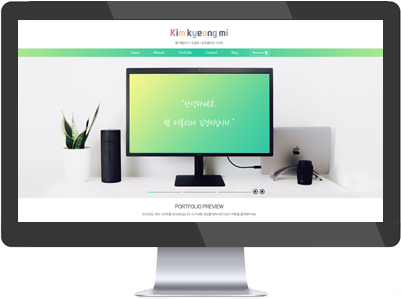
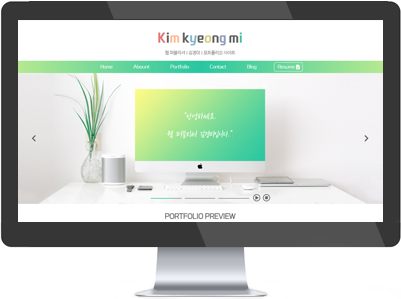
Source : index 배너 이미지 변경

diff --git a/css/index.css b/css/index.css
@@ -46,7 +46,7 @@
 .project_list:nth-child(5) .project_preview_img {background: url(../img/project_img_05.png) center / cover no-repeat;}
 .project_title {margin: var(--base-15);}
 .project_list a {position: relative; width: 60%; height: var(--size-tall); margin: 0 auto; font-size: var(--size-small); border: 1px solid var(--color-mideum-grey); border-radius: 20px; color: var(--color-grey)}
-.project_list a::before {display: block; content: ""; position: absolute; width: 100%; height: 100%; border-radius: 20px; background-color: var(--color-mint); transform: scale(0); transition: transform .2s; z-index: -1;}
+.project_list a::before {display: block; content: ""; position: absolute; width: 100%; height: 100%; border-radius: 20px; background: var(--color-mint); transform: scale(0); transition: transform .2s; z-index: -1;}
 .project_list a:hover {color: var(--color-white);}
 .project_list a:hover::before {transform: scale(1);}
 .project_list .fw_light {display: block;}
@@ -69,7 +69,7 @@
 
 @media screen and (min-width: 1200px) {
   .project_title {margin-bottom: 15px;}
-  .banner button {background: transparent; color: var(--color-black); transition: opacity .3s; opacity: 0; outline: none;}
+  .banner button {background: transparent; color: var(--color-dark-grey); transition: opacity .3s; opacity: 0; outline: none;}
   .banner:hover button {opacity: 1;}
   .banner button:focus {opacity: 1;}
   .banner_prev_btn {bottom: 50%; transform: translateY(50%); left: 0px; width: 120px; height: 100%;}

diff --git a/css/common.css b/css/common.css
@@ -33,7 +33,7 @@
    --color-grey: #8b8b8b;
    --color-dark-grey: #666666;
    --color-black: #000000;
-   --color-mint: #28c6a2;
+   --color-mint: #3ed4a7;
    --color-yellow: #fffb87;
    --color-powder-red: #e57a7a;
    --color-powder-orange: #ffbe97;
